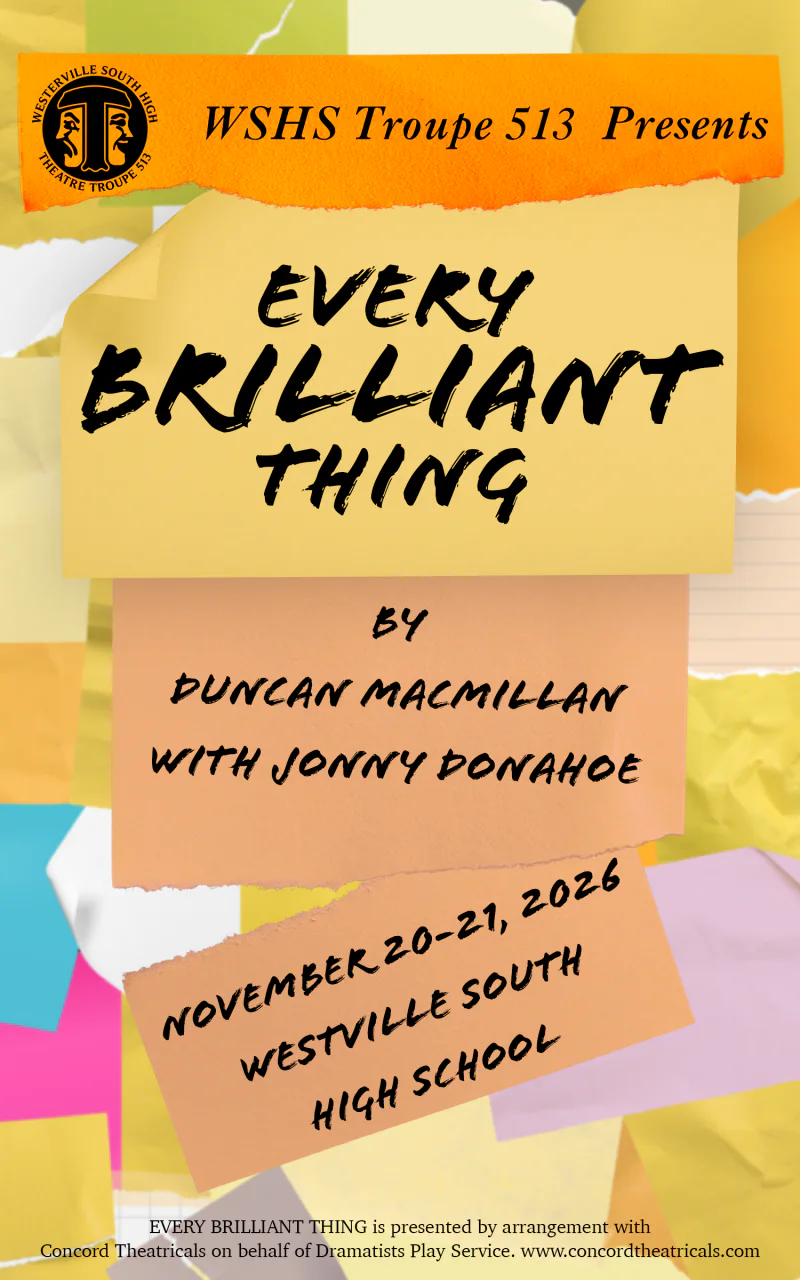
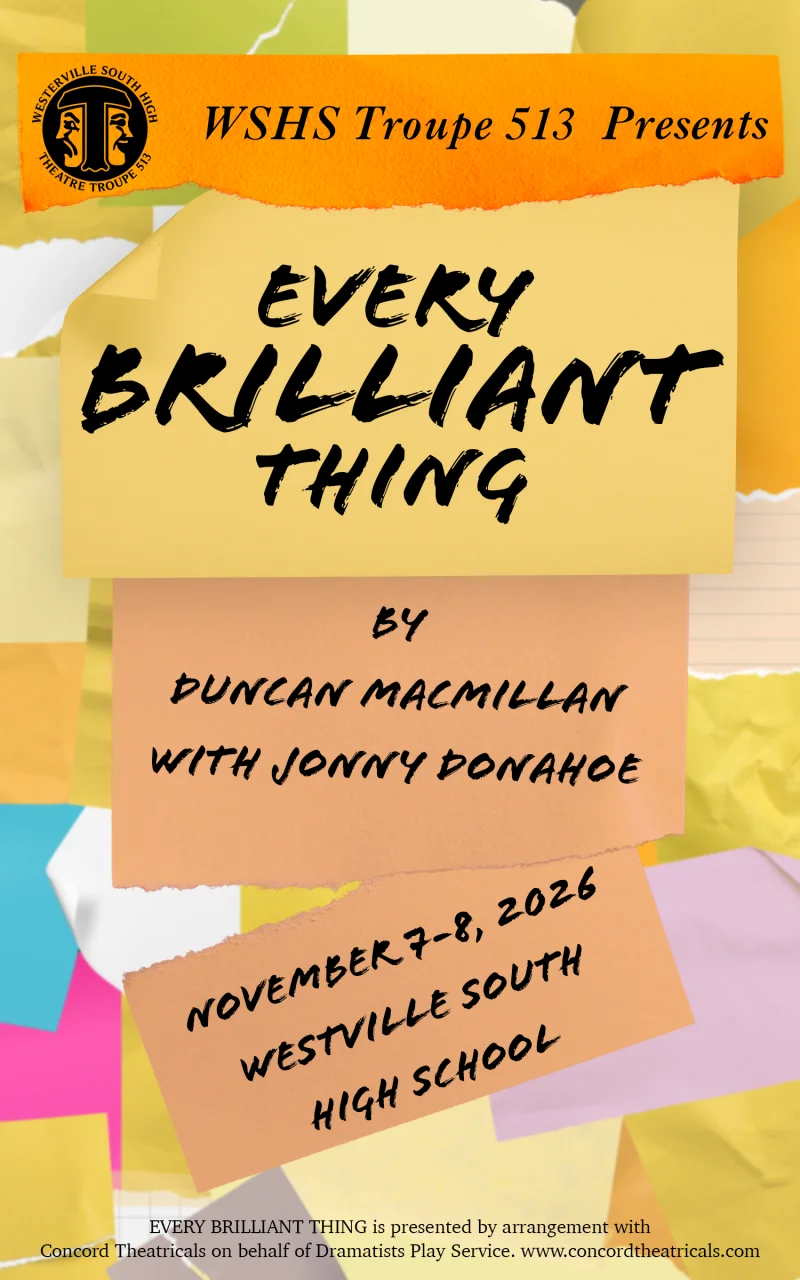
restore Every Brilliant Thing artwork

Changed region(s): [[0.1875, 0.6562, 0.7812, 0.8125], [0.0625, 0.0625, 0.1875, 0.1562]]

diff --git a/content/en/shows/every-brilliant-thing.md b/content/en/shows/every-brilliant-thing.md
@@ -11,6 +11,8 @@ season: "2026-27"
 show_type: "Winter Play"
 program: "main-stage"
 production_format: "play"
+poster: "/images/every_brilliant_thing_playbill_medium.webp"
+poster_large: "/images/every_brilliant_thing_playbill_large.webp"
 opening_date: 2026-11-07
 closing_date: 2026-11-08
 date_display: "November 7–8, 2026"
